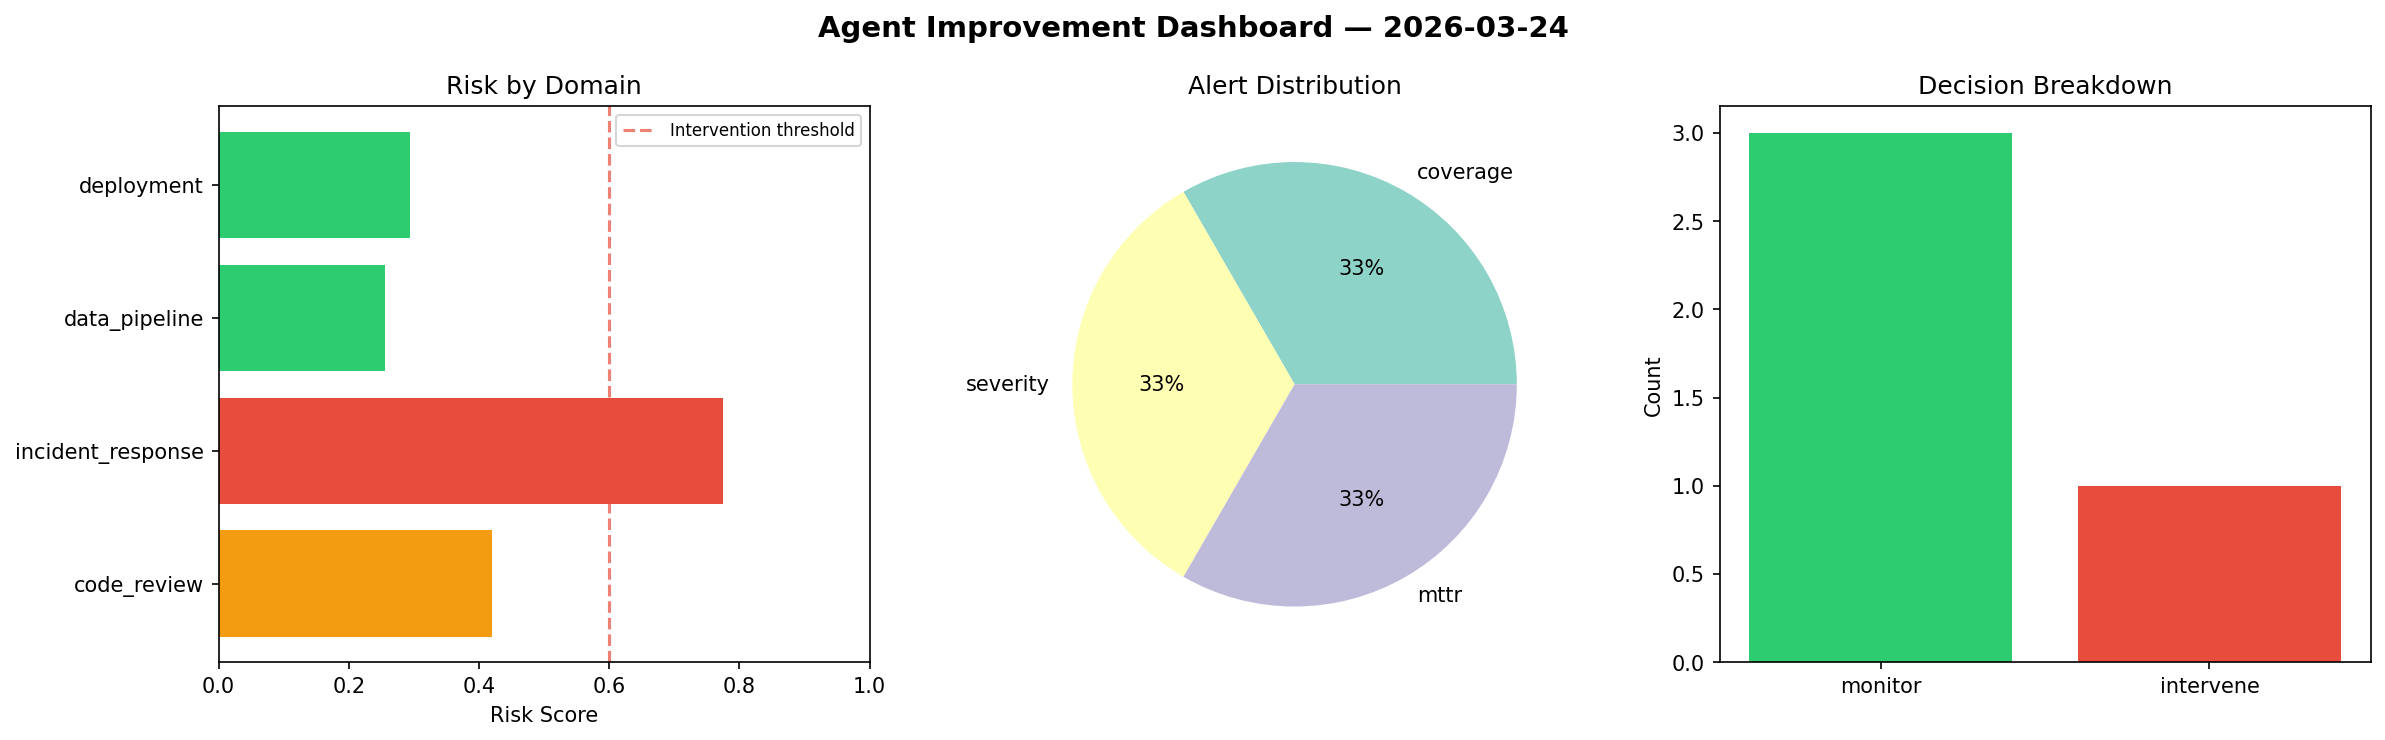
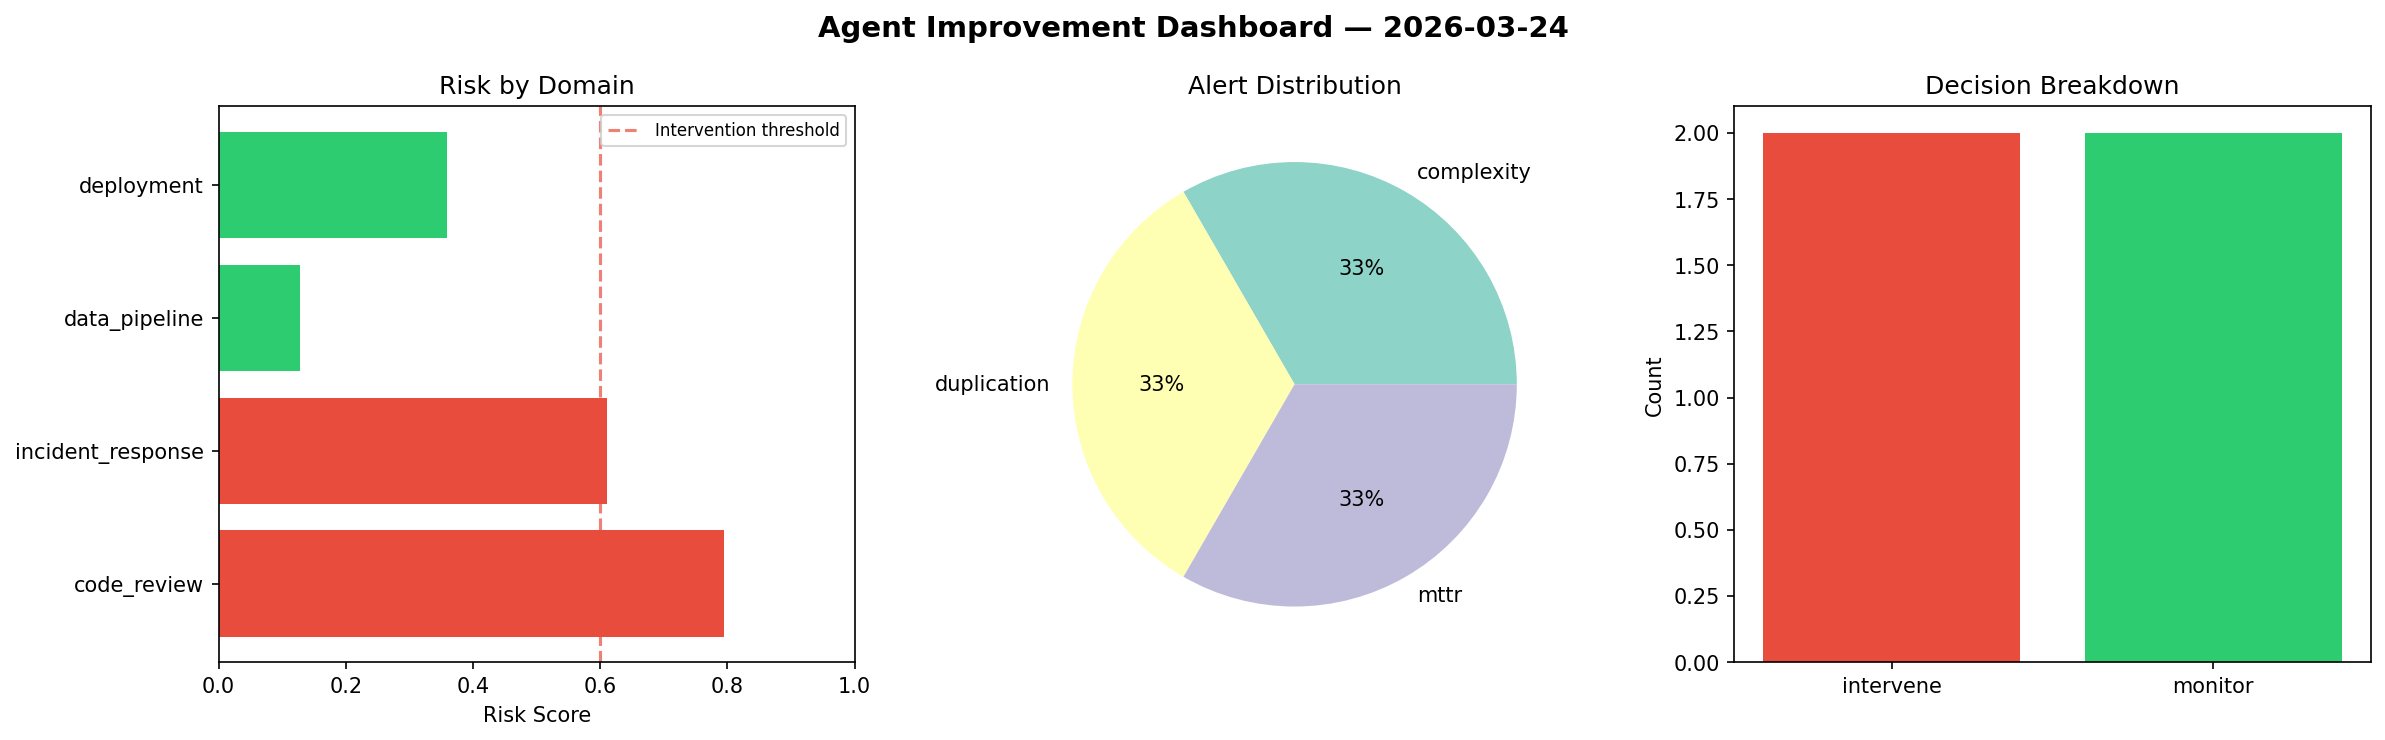
agent-improvement: daily cycle 2026-03-24T09:08

diff --git a/logs/2026-03-24.md b/logs/2026-03-24.md
@@ -1,6 +1,6 @@
 # Agent Improvement Report — 2026-03-24
 
-**Cycle ID:** `b364d6f5` | **Avg Risk:** 0.436 | **Interventions:** 1/4
+**Cycle ID:** `4de067d3` | **Avg Risk:** 0.4734 | **Interventions:** 2/4
 
 ![Dashboard](2026-03-24_dashboard.png)
 
@@ -10,18 +10,18 @@
 
 | Domain | Risk Score | Decision | Alerts |
 |--------|-----------|----------|--------|
-| code_review | 0.4193 | monitor | coverage |
-| incident_response | 0.7745 | intervene | severity, mttr |
-| data_pipeline | 0.2555 | monitor | none |
-| deployment | 0.2945 | monitor | none |
+| code_review | 0.795 | intervene | complexity, duplication |
+| incident_response | 0.6114 | intervene | mttr |
+| data_pipeline | 0.1281 | monitor | none |
+| deployment | 0.3591 | monitor | none |
 
 ## Delta vs Yesterday
 
 | Domain | Today | Yesterday | Change |
 |--------|-------|-----------|--------|
-| code_review | 0.4193 | 0.4489 | 📉 -6.6% |
-| incident_response | 0.7745 | 0.6761 | 📈 14.6% |
-| data_pipeline | 0.2555 | 0.7056 | 📉 -63.8% |
-| deployment | 0.2945 | 0.2064 | 📈 42.7% |
+| code_review | 0.795 | 0.4489 | 📈 77.1% |
+| incident_response | 0.6114 | 0.6761 | 📉 -9.6% |
+| data_pipeline | 0.1281 | 0.7056 | 📉 -81.8% |
+| deployment | 0.3591 | 0.2064 | 📈 74.0% |
 
 **Refinement:** `{'adjustment': 'maintain', 'trend': 'improving', 'window': 4}`
